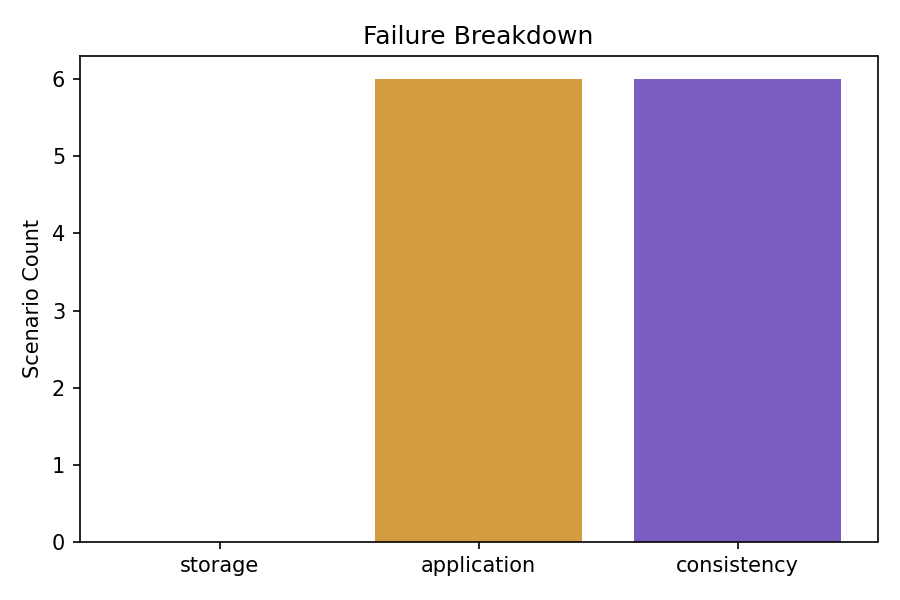
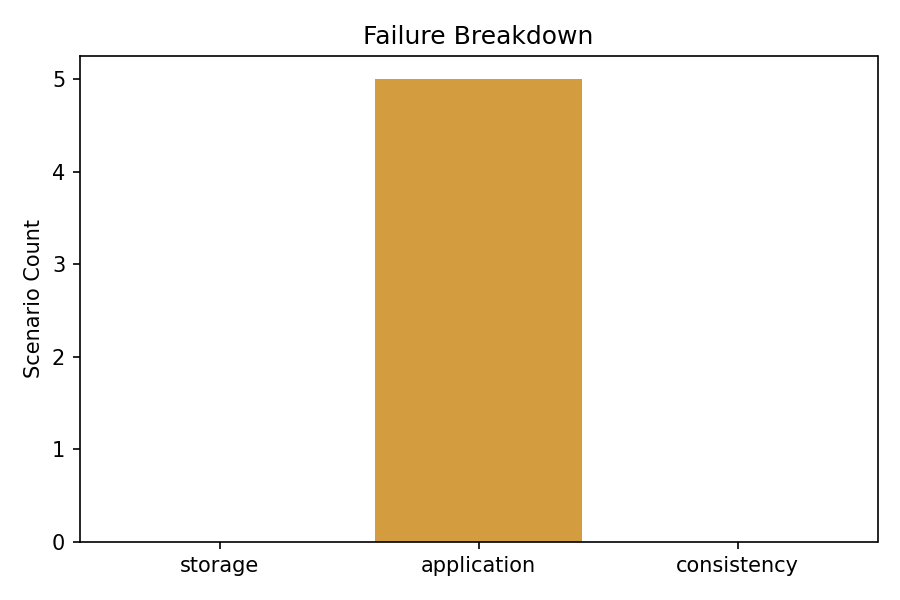
Add temporal update decision utility probe results

diff --git a/eval/update_probe/findings.md b/eval/update_probe/findings.md
@@ -1,0 +1,69 @@
+# Temporal Update + Decision Utility Probe Findings
+
+## Experiment Goal
+
+This probe evaluates whether the system can use the latest updated business facts in final decision-making, rather than relying on stale or superseded facts.
+
+The experiment is designed to move beyond simple recall testing. It focuses on decision utility: whether updated facts actually affect the final recommendation, rejected options, risks, and action plan.
+
+## Setup
+
+The benchmark includes 6 scenarios:
+
+- 2 GTM constraint update scenarios
+- 2 ICP / buyer-chain update scenarios
+- 2 competitor / market-signal update scenarios
+
+Each scenario contains:
+
+- initial facts
+- later updates that supersede some initial facts
+- distractor information
+- expected latest facts
+- expected decision implications
+
+The model was run through CLI mode, and raw outputs were saved under:
+
+- `eval/update_probe/raw/`
+
+The scoring pipeline generated:
+
+- `eval/update_probe/results.csv`
+- `eval/update_probe/summary.md`
+- `eval/update_probe/latest_fact_fidelity.png`
+- `eval/update_probe/failure_breakdown.png`
+
+## Metrics
+
+The probe tracks five main metrics:
+
+1. `latest_fact_fidelity`  
+   Whether the final answer uses the latest updated facts.
+
+2. `stale_fact_usage`  
+   Whether the final answer still relies on superseded facts.
+
+3. `decision_use_rate`  
+   Whether the updated facts actually affect the final recommendation.
+
+4. `contradiction_count`  
+   Whether old and new facts are used together in a conflicting way.
+
+5. `update_sensitivity`  
+   Whether the final strategic recommendation changes in response to the updated facts.
+
+## Mapping to Memory Failure Types
+
+- Low latest-fact fidelity suggests storage or update-tracking failure.
+- Good recall but low decision use suggests application failure.
+- Stale or contradictory usage suggests consistency failure.
+
+## Preliminary Interpretation
+
+This probe provides a first code-based way to evaluate OpenClaw memory beyond recall. The key question is not only whether facts can be remembered, but whether updated facts are used correctly in final decisions.
+
+At this stage, the experiment should be treated as a pilot result. It provides a reproducible benchmark structure, raw outputs, scoring results, and visualization artifacts, but should be expanded with more scenarios and direct OpenClaw session traces in the next iteration.
+
+## Next Step
+
+The next step is to connect this probe to full OpenClaw runtime logs, including step-level traces, tool calls, memory reads, memory writes, and injected memory content. That will allow the current decision-level metrics to be linked back to concrete memory operations.

diff --git a/eval/update_probe/summary.md b/eval/update_probe/summary.md
@@ -1,6 +1,6 @@
 # Temporal Update + Decision Utility Probe Summary
 
-Generated: 2026-04-27 04:24 UTC
+Generated: 2026-04-27 04:46 UTC
 
 ## Scope
 
@@ -11,16 +11,16 @@ Generated: 2026-04-27 04:24 UTC
 
 - Scenarios scored: 6
 - Average latest fact fidelity: 1.0
-- Average stale fact usage: 1.0
-- Decision use rate: 0.0
-- Total contradiction count: 12
-- Update sensitivity: 0.0
+- Average stale fact usage: 0.0
+- Decision use rate: 0.167
+- Total contradiction count: 0
+- Update sensitivity: 0.167
 
 ## Failure Signals
 
 - Storage failures: 0
-- Application failures: 6
-- Consistency failures: 6
+- Application failures: 5
+- Consistency failures: 0
 
 ## Traceability
 
